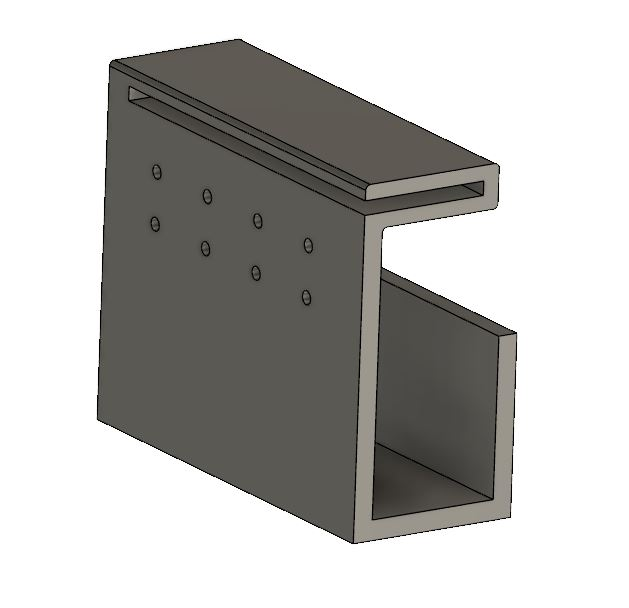
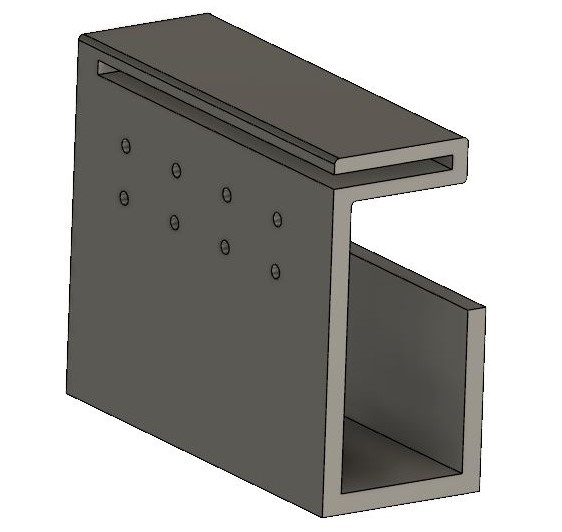
changed holder png size

diff --git a/skunk-feeder.html b/skunk-feeder.html
@@ -84,7 +84,7 @@
 									<h3>Device Structure</h3>
 									<figure>
 									<div class="col-12"><span class="image fit"><img src="images/lasercuts.png" alt="" /></span></div>
-									<div class="col-4"><span class="image fit"><img src="images/holder.jpg" alt="" /></span></div>
+									<div class="col-4"><span class="image fit"><img src="images/holder.png" alt="" /></span></div>
 									<figcaption align="center"><sup><i>The laser-cutting vectors used to create the chassis of the device</i></sup></figcaption>
 									</figure>
 										<ul>
